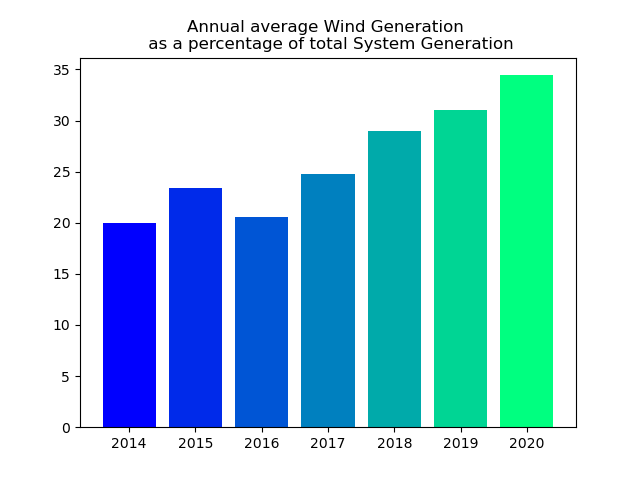
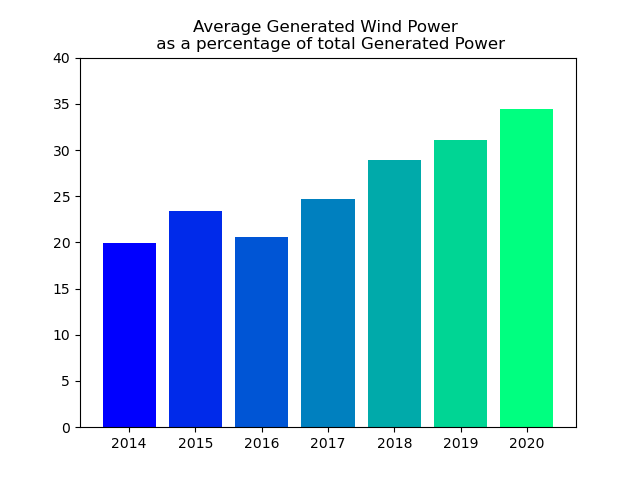
added energy plot as Figure 3

diff --git a/analyseDashboardData.py b/analyseDashboardData.py
@@ -70,12 +70,12 @@ dfMerged = pd.DataFrame({
 avgAnnualWind, avgMonthlyWind = calcStats(dfMerged["dateTime"], dfMerged["wind"])
 avgAnnualSys, avgMonthlySys = calcStats(dfMerged["dateTime"], dfMerged["sys"])
 
-# mean of ratios:
+# Average wind power per generated system power:
 annualWindPerSys, monthlyWindPerSys = calcStats(dfMerged["dateTime"], dfMerged["windPerSys"])
 
-# ratio of means:
-# monthlyWindPerSys = [i/j for i, j in zip(avgMonthlyWind, avgMonthlySys)]
-# annualWindPerSys = [i/j for i, j in zip(avgAnnualWind, avgAnnualSys)]
+# Average wind energy per generated system energy:
+monthlyEnergy = [100*i/j for i, j in zip(avgMonthlyWind, avgMonthlySys)] # equivalent to sum(avgMonthlyWind*dt)/sum(avgMonthlySys*dt) since (1/N) terms in means cancel
+annualEnergy = [100*i/j for i, j in zip(avgAnnualWind, avgAnnualSys)] # equivalent to sum(avgAnnualWind*dt)/sum(avgAnnualSys*dt) since (1/N) terms in means cancel
 
 N = 4*24*30*3
 movAvgWind = movAvg(dfMerged["wind"], N)
@@ -117,9 +117,16 @@ color = plt.cm.winter(np.linspace(0,1,n))# color = plt.cm.cool(np.linspace(0,1,n
 plt.figure(2)
 for i,c in zip(range(n),color):
     plt.bar([y.year for y in yearVector][i], annualWindPerSys[i], color=c)
-plt.title("Annual average Wind Generation \n as a percentage of total System Generation")
+plt.title("Average Generated Wind Power \n as a percentage of total Generated Power")
+plt.ylim((0, 40))
 
 plt.figure(3)
+for i,c in zip(range(n),color):
+    plt.bar([y.year for y in yearVector][i], annualEnergy[i], color=c)
+plt.title("Annual average Generated Wind Energy \n as a percentage of total Generated Energy")
+plt.ylim((0, 40))
+
+plt.figure(4)
 for i,c in zip(range(n),color):
     if i == n-1:
         plt.polar(monthVecRadial[:-1], monthlyWindPerSys[i*12:(i+1)*12], c=c)
@@ -130,7 +137,7 @@ plt.legend([y.year for y in yearVector], loc='upper left', bbox_to_anchor=(1.05,
 plt.title("Monthly average Wind Generation \n as a percentage of total System Generation")
 
 dayNum = np.array([datetime.date(d.year, d.month, d.day).toordinal() - datetime.date(d.year, 1, 1).toordinal() for d in dfMerged["dateTime"]])
-plt.figure(4)
+plt.figure(5)
 for iYear, c in zip(range(2014, 2021),color):
     b = [d.year==iYear for d in dfMerged["dateTime"]]
     plt.polar((dayNum[b]/365)*np.pi*2, movAvgWindPerSys[b], c=c)
